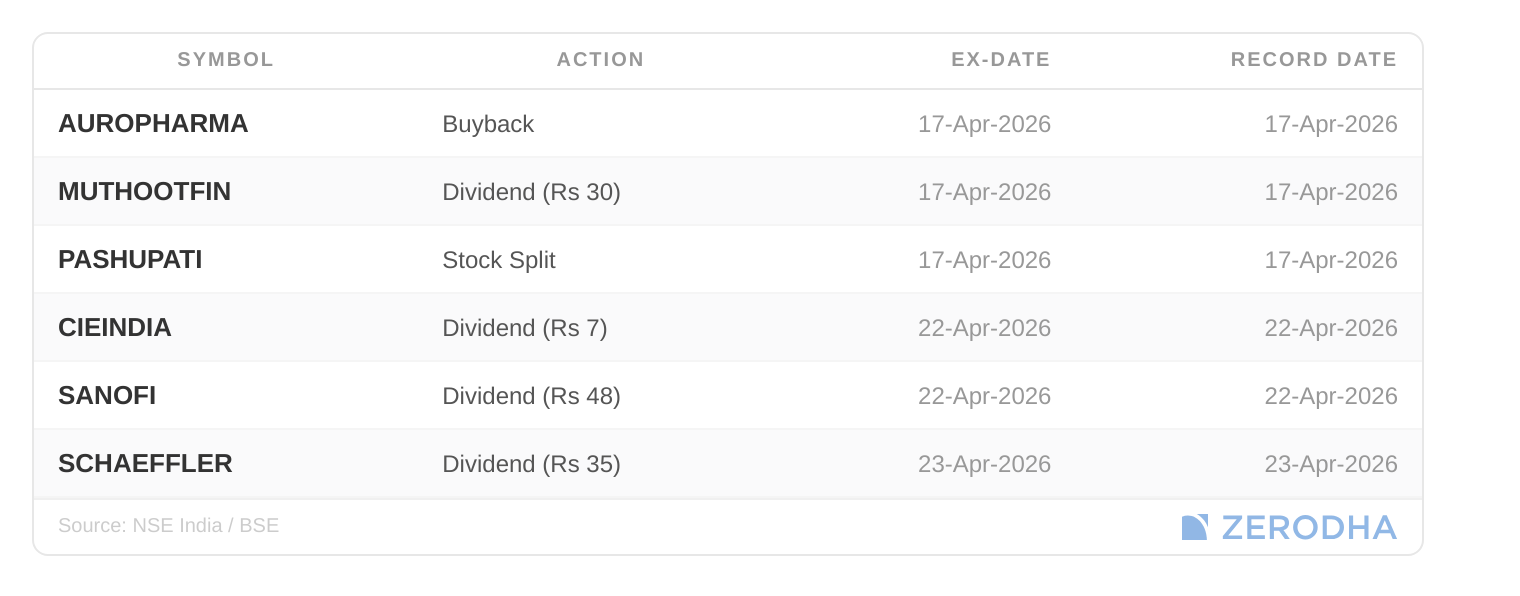
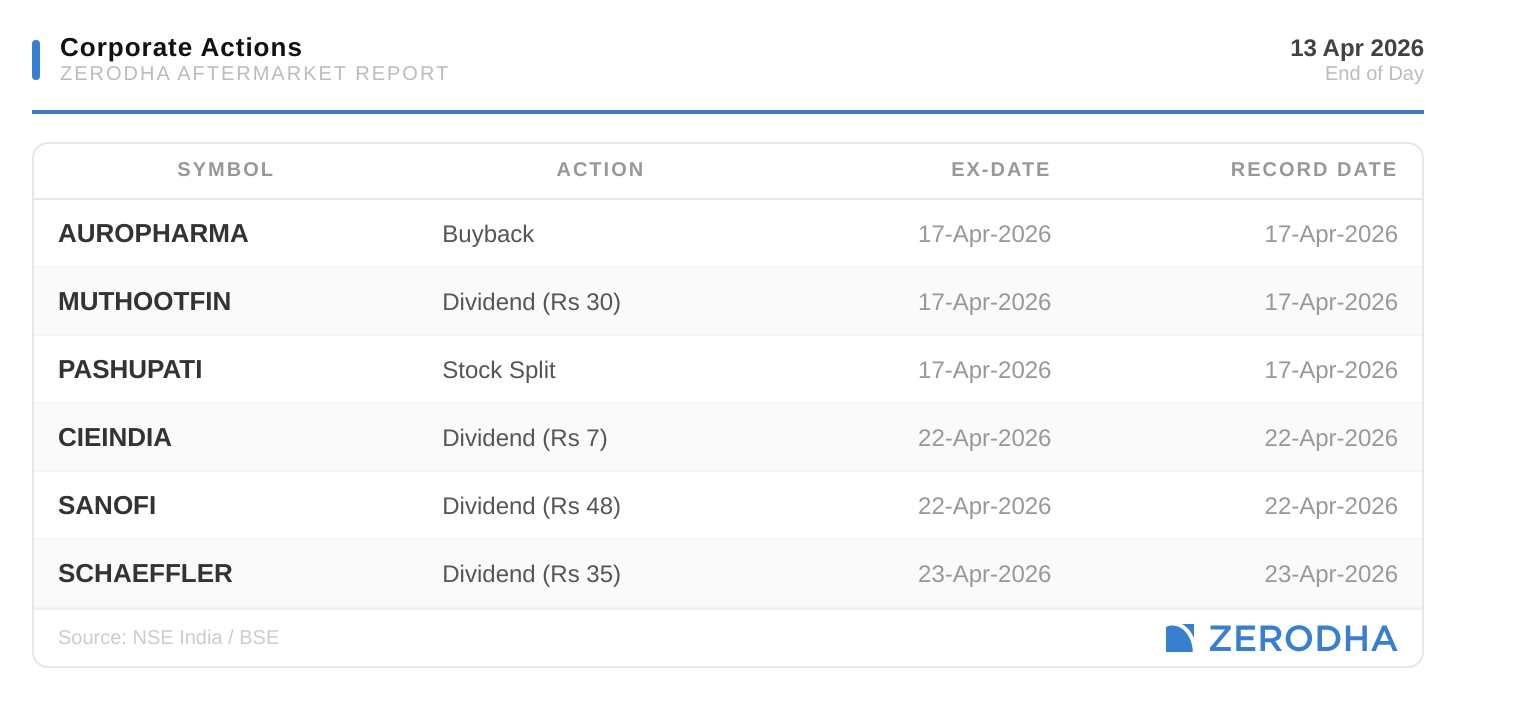
Newsletter: 2026-04-13

diff --git a/index.html b/index.html
@@ -246,7 +246,7 @@
   </div>
     <div style="padding:7px 12px;font-size:10px;color:#CCCCCC;border-top:1px solid #F0F0F0;display:flex;align-items:center;justify-content:space-between;">
     <span>Source: NSE India</span>
-    <svg height="13" viewBox="0 0 1523.45 184.15" xmlns="http://www.w3.org/2000/svg" style="display:inline-block;vertical-align:middle;opacity:0.55">
+    <svg height="14" viewBox="0 0 1523.45 184.15" xmlns="http://www.w3.org/2000/svg" style="display:inline-block;vertical-align:middle">
   <path d="m1422.95,9.49h27.14l73.36,167.89h-30.98l-16.9-40.25h-78.85l-17.17,40.25h-30.02l73.42-167.89Zm41.91,101.67l-28.79-66.7-28.58,66.7h57.37Z" fill="#387ED1"/>
   <path d="m1182.92,10.66h29.06v69.31h79.97V10.66h29.06v166.72h-29.06v-70.27h-79.97v70.27h-29.06V10.66Z" fill="#387ED1"/>
   <path d="m156.38,44.79c11.25,14.56,20.58,30.92,27.78,48.62V0h-79.28c19.03,10.34,36.52,25.38,51.5,44.79Z" fill="#387ED1"/>
@@ -424,7 +424,7 @@
     </table>
     <div style="padding:7px 12px;font-size:10px;color:#CCCCCC;border-top:1px solid #F0F0F0;display:flex;align-items:center;justify-content:space-between;">
     <span>Source: NSE India</span>
-    <svg height="13" viewBox="0 0 1523.45 184.15" xmlns="http://www.w3.org/2000/svg" style="display:inline-block;vertical-align:middle;opacity:0.55">
+    <svg height="14" viewBox="0 0 1523.45 184.15" xmlns="http://www.w3.org/2000/svg" style="display:inline-block;vertical-align:middle">
   <path d="m1422.95,9.49h27.14l73.36,167.89h-30.98l-16.9-40.25h-78.85l-17.17,40.25h-30.02l73.42-167.89Zm41.91,101.67l-28.79-66.7-28.58,66.7h57.37Z" fill="#387ED1"/>
   <path d="m1182.92,10.66h29.06v69.31h79.97V10.66h29.06v166.72h-29.06v-70.27h-79.97v70.27h-29.06V10.66Z" fill="#387ED1"/>
   <path d="m156.38,44.79c11.25,14.56,20.58,30.92,27.78,48.62V0h-79.28c19.03,10.34,36.52,25.38,51.5,44.79Z" fill="#387ED1"/>
@@ -469,7 +469,7 @@
       </table>
       <div style="padding:7px 12px;font-size:10px;color:#CCCCCC;border-top:1px solid #F0F0F0;display:flex;align-items:center;justify-content:space-between;">
     <span>Source: NSE India</span>
-    <svg height="13" viewBox="0 0 1523.45 184.15" xmlns="http://www.w3.org/2000/svg" style="display:inline-block;vertical-align:middle;opacity:0.55">
+    <svg height="14" viewBox="0 0 1523.45 184.15" xmlns="http://www.w3.org/2000/svg" style="display:inline-block;vertical-align:middle">
   <path d="m1422.95,9.49h27.14l73.36,167.89h-30.98l-16.9-40.25h-78.85l-17.17,40.25h-30.02l73.42-167.89Zm41.91,101.67l-28.79-66.7-28.58,66.7h57.37Z" fill="#387ED1"/>
   <path d="m1182.92,10.66h29.06v69.31h79.97V10.66h29.06v166.72h-29.06v-70.27h-79.97v70.27h-29.06V10.66Z" fill="#387ED1"/>
   <path d="m156.38,44.79c11.25,14.56,20.58,30.92,27.78,48.62V0h-79.28c19.03,10.34,36.52,25.38,51.5,44.79Z" fill="#387ED1"/>
@@ -513,7 +513,7 @@
       </table>
       <div style="padding:7px 12px;font-size:10px;color:#CCCCCC;border-top:1px solid #F0F0F0;display:flex;align-items:center;justify-content:space-between;">
     <span>Source: NSE India</span>
-    <svg height="13" viewBox="0 0 1523.45 184.15" xmlns="http://www.w3.org/2000/svg" style="display:inline-block;vertical-align:middle;opacity:0.55">
+    <svg height="14" viewBox="0 0 1523.45 184.15" xmlns="http://www.w3.org/2000/svg" style="display:inline-block;vertical-align:middle">
   <path d="m1422.95,9.49h27.14l73.36,167.89h-30.98l-16.9-40.25h-78.85l-17.17,40.25h-30.02l73.42-167.89Zm41.91,101.67l-28.79-66.7-28.58,66.7h57.37Z" fill="#387ED1"/>
   <path d="m1182.92,10.66h29.06v69.31h79.97V10.66h29.06v166.72h-29.06v-70.27h-79.97v70.27h-29.06V10.66Z" fill="#387ED1"/>
   <path d="m156.38,44.79c11.25,14.56,20.58,30.92,27.78,48.62V0h-79.28c19.03,10.34,36.52,25.38,51.5,44.79Z" fill="#387ED1"/>
@@ -592,7 +592,7 @@
     </table>
     <div style="padding:7px 12px;font-size:10px;color:#CCCCCC;border-top:1px solid #F0F0F0;display:flex;align-items:center;justify-content:space-between;">
     <span>Source: MCX / NSE India</span>
-    <svg height="13" viewBox="0 0 1523.45 184.15" xmlns="http://www.w3.org/2000/svg" style="display:inline-block;vertical-align:middle;opacity:0.55">
+    <svg height="14" viewBox="0 0 1523.45 184.15" xmlns="http://www.w3.org/2000/svg" style="display:inline-block;vertical-align:middle">
   <path d="m1422.95,9.49h27.14l73.36,167.89h-30.98l-16.9-40.25h-78.85l-17.17,40.25h-30.02l73.42-167.89Zm41.91,101.67l-28.79-66.7-28.58,66.7h57.37Z" fill="#387ED1"/>
   <path d="m1182.92,10.66h29.06v69.31h79.97V10.66h29.06v166.72h-29.06v-70.27h-79.97v70.27h-29.06V10.66Z" fill="#387ED1"/>
   <path d="m156.38,44.79c11.25,14.56,20.58,30.92,27.78,48.62V0h-79.28c19.03,10.34,36.52,25.38,51.5,44.79Z" fill="#387ED1"/>
@@ -678,7 +678,7 @@
     </div>
     <div style="padding:7px 12px;font-size:10px;color:#CCCCCC;border-top:1px solid #F0F0F0;display:flex;align-items:center;justify-content:space-between;">
     <span>Source: NSE India / BSE</span>
-    <svg height="13" viewBox="0 0 1523.45 184.15" xmlns="http://www.w3.org/2000/svg" style="display:inline-block;vertical-align:middle;opacity:0.55">
+    <svg height="14" viewBox="0 0 1523.45 184.15" xmlns="http://www.w3.org/2000/svg" style="display:inline-block;vertical-align:middle">
   <path d="m1422.95,9.49h27.14l73.36,167.89h-30.98l-16.9-40.25h-78.85l-17.17,40.25h-30.02l73.42-167.89Zm41.91,101.67l-28.79-66.7-28.58,66.7h57.37Z" fill="#387ED1"/>
   <path d="m1182.92,10.66h29.06v69.31h79.97V10.66h29.06v166.72h-29.06v-70.27h-79.97v70.27h-29.06V10.66Z" fill="#387ED1"/>
   <path d="m156.38,44.79c11.25,14.56,20.58,30.92,27.78,48.62V0h-79.28c19.03,10.34,36.52,25.38,51.5,44.79Z" fill="#387ED1"/>
@@ -773,7 +773,7 @@
   </div>
     <div style="padding:7px 12px;font-size:10px;color:#CCCCCC;border-top:1px solid #F0F0F0;display:flex;align-items:center;justify-content:space-between;">
     <span>Source: NSE India</span>
-    <svg height="13" viewBox="0 0 1523.45 184.15" xmlns="http://www.w3.org/2000/svg" style="display:inline-block;vertical-align:middle;opacity:0.55">
+    <svg height="14" viewBox="0 0 1523.45 184.15" xmlns="http://www.w3.org/2000/svg" style="display:inline-block;vertical-align:middle">
   <path d="m1422.95,9.49h27.14l73.36,167.89h-30.98l-16.9-40.25h-78.85l-17.17,40.25h-30.02l73.42-167.89Zm41.91,101.67l-28.79-66.7-28.58,66.7h57.37Z" fill="#387ED1"/>
   <path d="m1182.92,10.66h29.06v69.31h79.97V10.66h29.06v166.72h-29.06v-70.27h-79.97v70.27h-29.06V10.66Z" fill="#387ED1"/>
   <path d="m156.38,44.79c11.25,14.56,20.58,30.92,27.78,48.62V0h-79.28c19.03,10.34,36.52,25.38,51.5,44.79Z" fill="#387ED1"/>
@@ -915,7 +915,7 @@
         <span>PCR: 1.25 &nbsp;·&nbsp;
         Implied Support: 23,800 &nbsp;·&nbsp;
         Implied Resistance: 23,850</span>
-        <svg height="13" viewBox="0 0 1523.45 184.15" xmlns="http://www.w3.org/2000/svg" style="display:inline-block;vertical-align:middle;opacity:0.55">
+        <svg height="14" viewBox="0 0 1523.45 184.15" xmlns="http://www.w3.org/2000/svg" style="display:inline-block;vertical-align:middle">
   <path d="m1422.95,9.49h27.14l73.36,167.89h-30.98l-16.9-40.25h-78.85l-17.17,40.25h-30.02l73.42-167.89Zm41.91,101.67l-28.79-66.7-28.58,66.7h57.37Z" fill="#387ED1"/>
   <path d="m1182.92,10.66h29.06v69.31h79.97V10.66h29.06v166.72h-29.06v-70.27h-79.97v70.27h-29.06V10.66Z" fill="#387ED1"/>
   <path d="m156.38,44.79c11.25,14.56,20.58,30.92,27.78,48.62V0h-79.28c19.03,10.34,36.52,25.38,51.5,44.79Z" fill="#387ED1"/>
@@ -1022,8 +1022,11 @@
     </tr></tbody>
     </table>
     <div style="padding:7px 12px;border-top:1px solid #F0F0F0;display:flex;align-items:center;justify-content:space-between;">
-      <span style="font-size:10px;color:#CCCCCC;">Source: Tijori Finance</span>
-      <svg height="13" viewBox="0 0 1523.45 184.15" xmlns="http://www.w3.org/2000/svg" style="display:inline-block;vertical-align:middle;opacity:0.55">
+      <span style="display:flex;align-items:center;gap:6px;font-size:10px;color:#CCCCCC;">
+        Source:
+        <span style="font-size:9px;font-weight:800;color:#456aef;letter-spacing:0.8px;text-transform:uppercase;border:1.5px solid #456aef;border-radius:3px;padding:1px 5px;">TIJORI</span>
+      </span>
+      <svg height="14" viewBox="0 0 1523.45 184.15" xmlns="http://www.w3.org/2000/svg" style="display:inline-block;vertical-align:middle">
   <path d="m1422.95,9.49h27.14l73.36,167.89h-30.98l-16.9-40.25h-78.85l-17.17,40.25h-30.02l73.42-167.89Zm41.91,101.67l-28.79-66.7-28.58,66.7h57.37Z" fill="#387ED1"/>
   <path d="m1182.92,10.66h29.06v69.31h79.97V10.66h29.06v166.72h-29.06v-70.27h-79.97v70.27h-29.06V10.66Z" fill="#387ED1"/>
   <path d="m156.38,44.79c11.25,14.56,20.58,30.92,27.78,48.62V0h-79.28c19.03,10.34,36.52,25.38,51.5,44.79Z" fill="#387ED1"/>
@@ -1318,7 +1321,7 @@
         <span style="display:inline-block;width:7px;height:7px;border-radius:50%;background:#F59E0B;margin-right:4px;vertical-align:middle;"></span>Medium &nbsp;
         <span style="display:inline-block;width:7px;height:7px;border-radius:50%;background:#BBBBBB;margin-right:4px;vertical-align:middle;"></span>Low
       </span>
-      <svg height="13" viewBox="0 0 1523.45 184.15" xmlns="http://www.w3.org/2000/svg" style="display:inline-block;vertical-align:middle;opacity:0.55">
+      <svg height="14" viewBox="0 0 1523.45 184.15" xmlns="http://www.w3.org/2000/svg" style="display:inline-block;vertical-align:middle">
   <path d="m1422.95,9.49h27.14l73.36,167.89h-30.98l-16.9-40.25h-78.85l-17.17,40.25h-30.02l73.42-167.89Zm41.91,101.67l-28.79-66.7-28.58,66.7h57.37Z" fill="#387ED1"/>
   <path d="m1182.92,10.66h29.06v69.31h79.97V10.66h29.06v166.72h-29.06v-70.27h-79.97v70.27h-29.06V10.66Z" fill="#387ED1"/>
   <path d="m156.38,44.79c11.25,14.56,20.58,30.92,27.78,48.62V0h-79.28c19.03,10.34,36.52,25.38,51.5,44.79Z" fill="#387ED1"/>
@@ -1373,7 +1376,7 @@
     </table>
     <div style="padding:7px 12px;font-size:10px;color:#CCCCCC;border-top:1px solid #F0F0F0;display:flex;align-items:center;justify-content:space-between;">
     <span>Source: NSE India / BSE</span>
-    <svg height="13" viewBox="0 0 1523.45 184.15" xmlns="http://www.w3.org/2000/svg" style="display:inline-block;vertical-align:middle;opacity:0.55">
+    <svg height="14" viewBox="0 0 1523.45 184.15" xmlns="http://www.w3.org/2000/svg" style="display:inline-block;vertical-align:middle">
   <path d="m1422.95,9.49h27.14l73.36,167.89h-30.98l-16.9-40.25h-78.85l-17.17,40.25h-30.02l73.42-167.89Zm41.91,101.67l-28.79-66.7-28.58,66.7h57.37Z" fill="#387ED1"/>
   <path d="m1182.92,10.66h29.06v69.31h79.97V10.66h29.06v166.72h-29.06v-70.27h-79.97v70.27h-29.06V10.66Z" fill="#387ED1"/>
   <path d="m156.38,44.79c11.25,14.56,20.58,30.92,27.78,48.62V0h-79.28c19.03,10.34,36.52,25.38,51.5,44.79Z" fill="#387ED1"/>
